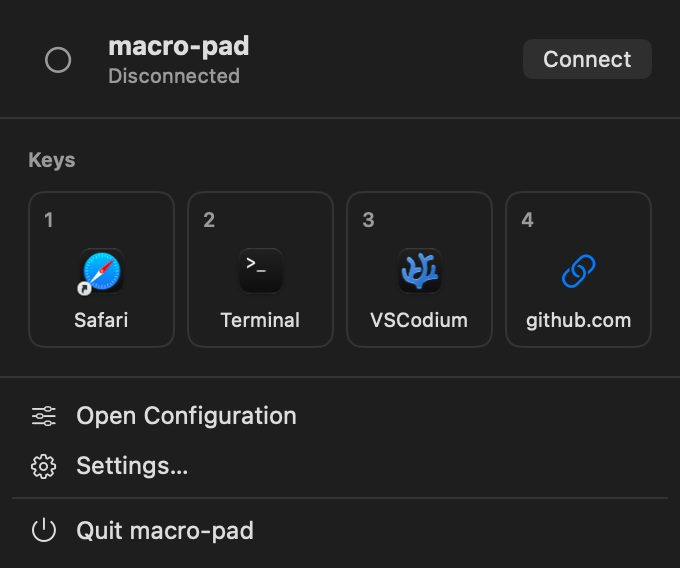
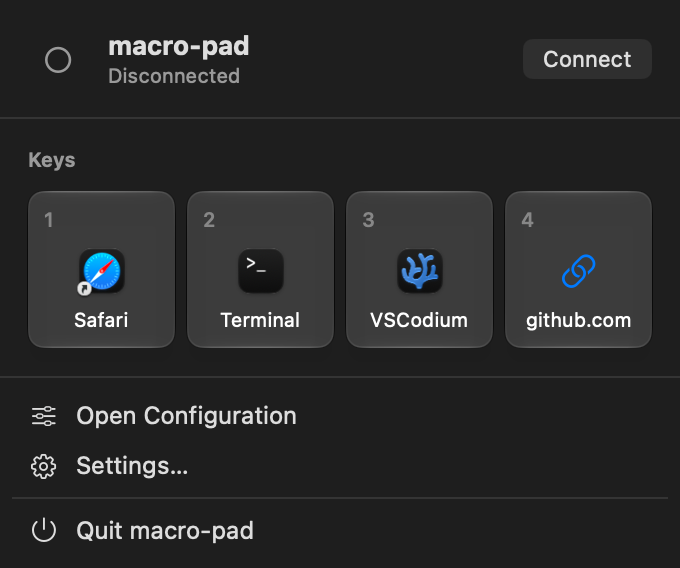
Apply native glass to macro key tiles

Changed region(s): [[0.0309, 0.3292, 0.9574, 0.6285]]

diff --git a/macos/ContentView.swift b/macos/ContentView.swift
@@ -177,23 +177,25 @@ struct MacroPadPreview: View {
                         .foregroundStyle(.secondary)
                 }
 
-                HStack(spacing: 10) {
-                    ForEach(model.editingAssignments, id: \.key) { assignment in
-                        MacroKeyTile(
-                            assignment: assignment,
-                            isSelected: model.selectedKeyID == assignment.key,
-                            isPressed: model.pressedKeys.contains(assignment.key),
-                            simulationMode: model.simulationMode,
-                            select: {
-                                model.selectedKeyID = assignment.key
-                                if model.simulationMode {
-                                    model.simulatePress(assignment.key)
-                                }
-                            },
-                            configure: { model.selectedKeyID = assignment.key },
-                            test: { model.testAction(for: assignment.key) },
-                            reset: { model.resetKey(assignment.key) }
-                        )
+                GlassEffectContainer(spacing: 0) {
+                    HStack(spacing: 10) {
+                        ForEach(model.editingAssignments, id: \.key) { assignment in
+                            MacroKeyTile(
+                                assignment: assignment,
+                                isSelected: model.selectedKeyID == assignment.key,
+                                isPressed: model.pressedKeys.contains(assignment.key),
+                                simulationMode: model.simulationMode,
+                                select: {
+                                    model.selectedKeyID = assignment.key
+                                    if model.simulationMode {
+                                        model.simulatePress(assignment.key)
+                                    }
+                                },
+                                configure: { model.selectedKeyID = assignment.key },
+                                test: { model.testAction(for: assignment.key) },
+                                reset: { model.resetKey(assignment.key) }
+                            )
+                        }
                     }
                 }
 
@@ -357,7 +359,6 @@ struct MacroKeyTile: View {
                 isSelected: isSelected,
                 isPressed: isPressed,
                 iconSize: iconSize,
-                background: tileBackground,
                 border: borderColor
             )
         }
@@ -377,13 +378,6 @@ struct MacroKeyTile: View {
         .accessibilityLabel(accessibilityDescription)
         .accessibilityHint(simulationMode ? "Selects and simulates this key." : "Selects this key for configuration.")
         .accessibilityAddTraits(isSelected ? [.isSelected] : [])
-    }
-
-    private var tileBackground: Color {
-        if isPressed { return Color.accentColor.opacity(0.16) }
-        if isSelected { return Color.accentColor.opacity(0.09) }
-        if isHovering { return Color(nsColor: .selectedContentBackgroundColor).opacity(0.08) }
-        return Color(nsColor: .controlBackgroundColor)
     }
 
     private var borderColor: Color {
@@ -413,7 +407,6 @@ struct MacroKeyTileContent: View {
     let isSelected: Bool
     let isPressed: Bool
     let iconSize: CGFloat
-    let background: Color
     let border: Color
 
     var body: some View {
@@ -469,7 +462,12 @@ struct MacroKeyTileContent: View {
         }
         .padding(12)
         .frame(maxWidth: .infinity, minHeight: 112)
-        .background(background, in: RoundedRectangle(cornerRadius: 10, style: .continuous))
+        .glassEffect(
+            .regular
+                .tint(isPressed ? Color.accentColor : nil)
+                .interactive(),
+            in: .rect(cornerRadius: 10)
+        )
         .overlay {
             RoundedRectangle(cornerRadius: 10, style: .continuous)
                 .strokeBorder(border, lineWidth: isSelected ? 1.5 : 1)

diff --git a/macos/MacroPadApp.swift b/macos/MacroPadApp.swift
@@ -182,13 +182,15 @@ struct MenuBarKeyOverview: View {
                 .font(.caption.weight(.semibold))
                 .foregroundStyle(.secondary)
 
-            HStack(spacing: 6) {
-                ForEach(assignments, id: \.key) { assignment in
-                    MenuBarKeyButton(
-                        assignment: assignment,
-                        isPressed: pressedKeys.contains(assignment.key),
-                        action: { selectKey(assignment.key) }
-                    )
+            GlassEffectContainer(spacing: 0) {
+                HStack(spacing: 6) {
+                    ForEach(assignments, id: \.key) { assignment in
+                        MenuBarKeyButton(
+                            assignment: assignment,
+                            isPressed: pressedKeys.contains(assignment.key),
+                            action: { selectKey(assignment.key) }
+                        )
+                    }
                 }
             }
         }
@@ -201,7 +203,6 @@ struct MenuBarKeyButton: View {
     let isPressed: Bool
     let action: () -> Void
 
-    @State private var isHovering = false
     @ScaledMetric(relativeTo: .body) private var iconSize = 28
 
     var body: some View {
@@ -242,22 +243,15 @@ struct MenuBarKeyButton: View {
             }
             .padding(8)
             .frame(maxWidth: .infinity, minHeight: 76)
-            .background(
-                isPressed
-                    ? Color.accentColor.opacity(0.14)
-                    : isHovering
-                        ? Color(nsColor: .selectedContentBackgroundColor).opacity(0.08)
-                        : Color(nsColor: .controlBackgroundColor),
-                in: RoundedRectangle(cornerRadius: 8, style: .continuous)
+            .glassEffect(
+                .regular
+                    .tint(isPressed ? Color.accentColor : nil)
+                    .interactive(),
+                in: .rect(cornerRadius: 8)
             )
-            .overlay {
-                RoundedRectangle(cornerRadius: 8, style: .continuous)
-                    .strokeBorder(Color(nsColor: .separatorColor), lineWidth: 1)
-            }
             .contentShape(.rect)
         }
         .buttonStyle(.plain)
-        .onHover { isHovering = $0 }
         .help("Configure \(assignment.key.title): \(tooltip)")
         .accessibilityLabel(accessibilityDescription)
         .accessibilityHint("Opens this key in the configuration window.")
